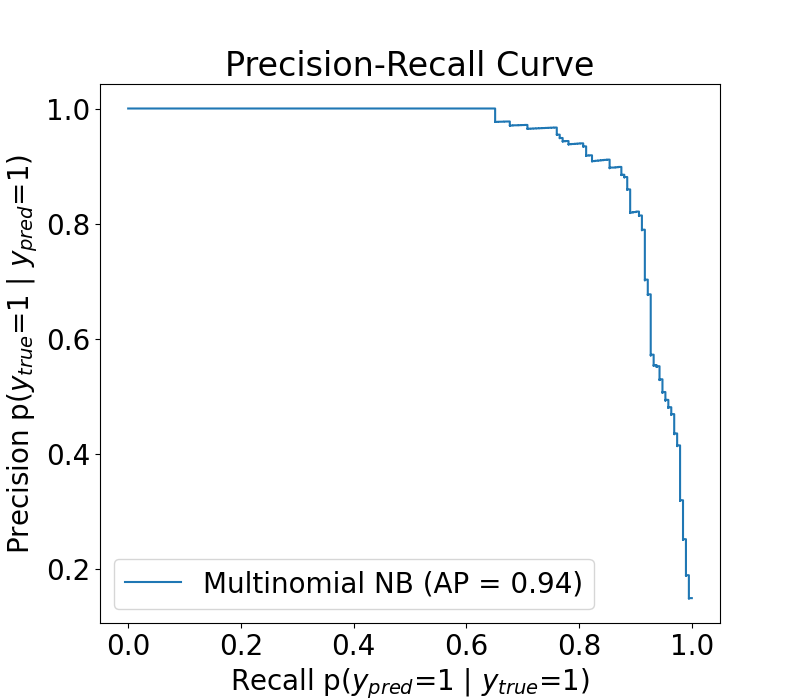
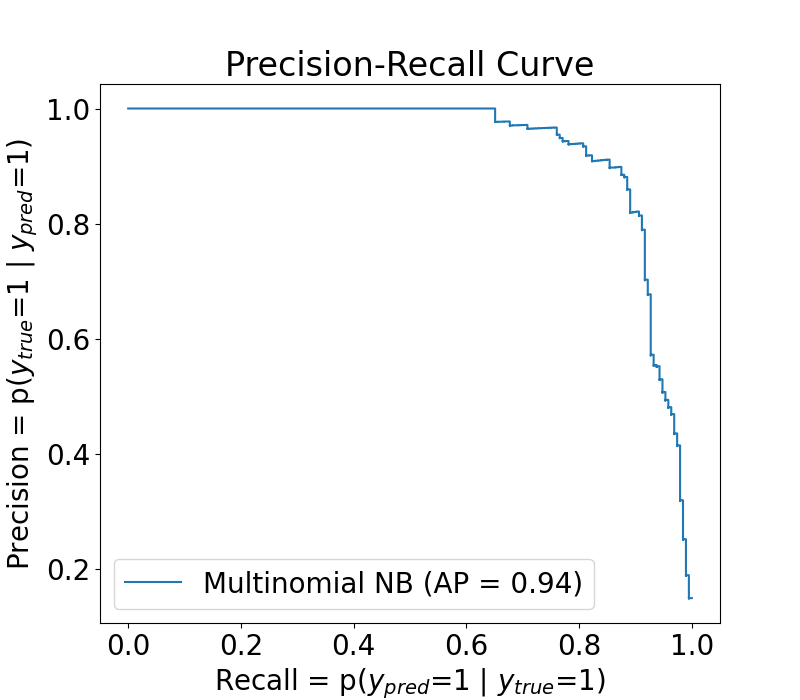
Update

Changed region(s): [[0.0, 0.18, 0.0625, 0.81], [0.25, 0.96, 0.7812, 1.0]]

diff --git a/SVM/SMS_spam_classifier.py b/SVM/SMS_spam_classifier.py
@@ -99,28 +99,8 @@ def train_multinomial_nb(messages):
     me.plot_confusion_matrix(cm = cf_matrix,
                              y_classes = categories)
 
-    # comparing actual response values (y_test) with predicted response values (y_pred)
-    from sklearn import metrics
-    print("Model accuracy(in %):", metrics.accuracy_score(y_test, y_pred)*100)
-
-    fpr, tpr, thresholds = metrics.roc_curve(
-        y_test, y_score[:, 1], pos_label='spam')
-    auc = metrics.roc_auc_score(y_test, y_score[:, 1])
-    print(auc)
-
-    # https://scikit-learn.org/stable/auto_examples/model_selection/plot_roc.html
-    plt.figure(figsize=(8, 6))
-    lw = 2
-    plt.plot(fpr, tpr, color='darkorange', lw=lw,
-             label="Multinomial NB (AUC = %0.2f)" % auc)
-    plt.plot([0, 1], [0, 1], color='navy', lw=lw, linestyle='--')
-    plt.xlim([-0.05, 1.05])
-    plt.ylim([-0.05, 1.05])
-    plt.legend(loc="lower right")
-    plt.xlabel('False Positive Rate')
-    plt.ylabel('True Positive Rate')
-    plt.title('ROC Curve')
-    plt.show()
+    me.plot_ROC_and_PR_curve(fitted_model = nb_detector, X = msg_test,
+                             y_true_array = y_test, y_pred_score_array = y_score[:, 1], y_pos_label='spam', model_name = 'Multinomial NB')
 
     print("")
     print(":: Classification Report")
@@ -172,28 +152,8 @@ def train_svm(messages):
     me.plot_confusion_matrix(cm = cf_matrix,
                           y_classes = categories)
 
-    # comparing actual response values (y_test) with predicted response values (y_pred)
-    from sklearn import metrics
-    print("Model accuracy(in %):", metrics.accuracy_score(y_test, y_pred)*100)
-
-    fpr, tpr, thresholds = metrics.roc_curve(
-        y_test, y_score[:, 1], pos_label='spam')
-    auc = metrics.roc_auc_score(y_test, y_score[:, 1])
-    print(auc)
-
-    # https://scikit-learn.org/stable/auto_examples/model_selection/plot_roc.html
-    plt.figure(figsize=(8, 6))
-    lw = 2
-    plt.plot(fpr, tpr, color='darkorange', lw=lw,
-             label="SVM (AUC = %0.2f)" % auc)
-    plt.plot([0, 1], [0, 1], color='navy', lw=lw, linestyle='--')
-    plt.xlim([-0.05, 1.05])
-    plt.ylim([-0.05, 1.05])
-    plt.legend(loc="lower right")
-    plt.xlabel('False Positive Rate')
-    plt.ylabel('True Positive Rate')
-    plt.title('ROC Curve')
-    plt.show()
+    me.plot_ROC_and_PR_curve(fitted_model = svm_detector, X = msg_test,
+                             y_true_array = y_test, y_pred_score_array = y_score[:, 1], y_pos_label='spam', model_name = 'SVM')
 
     print("")
     print(":: Classification Report")
@@ -213,7 +173,7 @@ def main(argv):
         print("Creating Naive Bayes Model.....")
         train_multinomial_nb(MESSAGES)
 
-    if(os.path.isfile('/Users/daniel/Data-Science/Data/Spam/SMS-Spam-Collection/ml_models/sms_spam_svm_model.pkl') == False):
+    if(not os.path.isfile('/Users/daniel/Data-Science/Data/Spam/SMS-Spam-Collection/ml_models/sms_spam_svm_model.pkl') == False):
         print("")
         print("Creating SVM Model.....")
         train_svm(MESSAGES)

diff --git a/Naive_Bayes/NB_classifiers.py b/Naive_Bayes/NB_classifiers.py
@@ -112,7 +112,7 @@ me.plot_confusion_matrix(cf_matrix,
 
 # https://scikit-learn.org/stable/auto_examples/model_selection/plot_roc.html
 # https://scikit-learn.org/stable/auto_examples/model_selection/plot_precision_recall.html#sphx-glr-auto-examples-model-selection-plot-precision-recall-py
-me.plot_ROC_and_PR_curve(fitted_model = model, X = X_test, y_true_array = y_test, y_pred_score_array = y_score[:, 1], label = 'Multinomial NB')
+me.plot_ROC_and_PR_curve(fitted_model = model, X = X_test, y_true_array = y_test, y_pred_score_array = y_score[:, 1], model_name = 'Multinomial NB')
 
 
 ######################################################################################################
